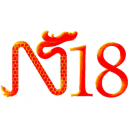
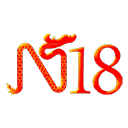
Update 2018-03-28T17:34:35.660Z

Changed region(s): [[0.0, 0.2188, 1.0, 0.7812]]

diff --git a/service-worker.js b/service-worker.js
@@ -31,7 +31,7 @@ importScripts("scripts/sw/sw-toolbox.js","scripts/sw/runtime-caching.js");
 
 
 /* eslint-disable quotes, comma-spacing */
-var PrecacheConfig = [["data/abstracts.json","4c7187fbb3b2bf2519104367832bc13c"],["images/NT18Logo-White.png","57213e3f41e130cdce872d19f80e52ba"],["images/NT18Logo.png","306a09cef1608b3bba0f1361d3ecf85c"],["images/NT18Title.png","0c87ac2583e018b5202dbd0b931e2af6"],["images/pkucloud1h100.png","e29137ee3603ddbe63a1f7680e0226ae"],["images/slider/slider (1).jpg","7b76b6b0cc5538c6646a549e07af77e6"],["images/slider/slider (10).jpg","44f0847936df433465fb4def7f9f4fb9"],["images/slider/slider (11).jpg","65acd9a34f2396934212cbbc118d9b3f"],["images/slider/slider (2).jpg","bec8b98f172e2ced1006e363f0db7beb"],["images/slider/slider (3).jpg","ee0d2276e55586c20c59d1ce3d28bc35"],["images/slider/slider (4).jpg","86e8dbf711b83b85d450b2b266268f8b"],["images/slider/slider (5).jpg","f91036841e8f749af7c751180fc20ec8"],["images/slider/slider (6).jpg","d6823d062a7d3d6c50a42cd51ff3ebc7"],["images/slider/slider (7).jpg","f390f141329bca8a6961dcda3b796162"],["images/slider/slider (8).jpg","463a1332a9e59efad04fcf803def99e6"],["images/slider/slider (9).jpg","937fdec54f960aa2c99c2bd5c1723289"],["images/touch/apple-touch-icon.png","0b9e0692d8b6060c2f5e907ca8b25735"],["images/touch/chrome-touch-icon-192x192.png","fcb807659fc2ff11702375d709e5f2da"],["images/touch/icon-128x128.png","acbd1e2167c5c1acb2ca1b84a76d528f"],["images/touch/ms-touch-icon-144x144-precomposed.png","e4ccf4451f97ec0449d9cde5448e9c1a"],["index.html","60ac9e52b23d01dad878add81187e202"],["lib/jquery/jquery-3.3.1.min.js","a09e13ee94d51c524b7e2a728c7d4039"],["lib/lunr/lunr.min.js","b1cdc7bf6d46f121c337744fa40cf283"],["lib/material/material.min.css","9ab85b48144d24908b4e455c2afb648c"],["lib/material/material.min.js","713af0c6ce93dbbce2f00bf0a98d0541"],["lib/material/material.red-orange.min.css","297d119747fad74bb9e567b7e6c25032"],["lib/semantic-ui-transition/transition.min.css","8504eae866c12354c8e87e7bc5d998ad"],["lib/semantic-ui-transition/transition.min.js","4498162fbd09bbeb2cdeadbddd30d6d9"],["manifest.json","705bd8a492fbd9f6a06008148494eba0"],["scripts/app.js","1641ee392bf5c2229574195207fedece"],["scripts/app.min.js","375f51c62ca58f5fad6167f8ed84cf9e"],["scripts/sw/runtime-caching.js","e3e34dcb62b5d62453b9215961585488"],["scripts/sw/sw-toolbox.js","2770efb889cc10c4de88d0b746c2a13c"],["styles/main.css","4e8bfce5a38ed63ad3ec442f4363d329"]];
+var PrecacheConfig = [["data/abstracts.json","4c7187fbb3b2bf2519104367832bc13c"],["images/NT18Logo-White.png","57213e3f41e130cdce872d19f80e52ba"],["images/NT18Logo.png","d6eba28a3cba7b370669a1ad2d752660"],["images/NT18Title.png","0c87ac2583e018b5202dbd0b931e2af6"],["images/pkucloud1h100.png","e29137ee3603ddbe63a1f7680e0226ae"],["images/slider/slider (1).jpg","7b76b6b0cc5538c6646a549e07af77e6"],["images/slider/slider (10).jpg","44f0847936df433465fb4def7f9f4fb9"],["images/slider/slider (11).jpg","65acd9a34f2396934212cbbc118d9b3f"],["images/slider/slider (2).jpg","bec8b98f172e2ced1006e363f0db7beb"],["images/slider/slider (3).jpg","ee0d2276e55586c20c59d1ce3d28bc35"],["images/slider/slider (4).jpg","86e8dbf711b83b85d450b2b266268f8b"],["images/slider/slider (5).jpg","f91036841e8f749af7c751180fc20ec8"],["images/slider/slider (6).jpg","d6823d062a7d3d6c50a42cd51ff3ebc7"],["images/slider/slider (7).jpg","f390f141329bca8a6961dcda3b796162"],["images/slider/slider (8).jpg","463a1332a9e59efad04fcf803def99e6"],["images/slider/slider (9).jpg","937fdec54f960aa2c99c2bd5c1723289"],["images/touch/apple-touch-icon.png","ca57afbbbbceae34b140dc0161815fb3"],["images/touch/chrome-touch-icon-192x192.png","482fbc1c068443c93a28d5a18a573e1b"],["images/touch/icon-128x128.png","e2132bd312517de7af7b0e721ec4d9a2"],["images/touch/ms-touch-icon-144x144-precomposed.png","cf99b8e5303aac12b8d86b935237c706"],["images/touch/splash-256x256.png","3203fbc23d86634527e9eb3b516a6787"],["images/touch/splash-384x384.png","639f4adf4fcfe7b0fb492be83255d52f"],["images/touch/splash-512x512.png","36c70216c750622ec05a482bdaed2b56"],["index.html","572ff9e4d6e9b235d15863a04ba4e6df"],["lib/jquery/jquery-3.3.1.min.js","a09e13ee94d51c524b7e2a728c7d4039"],["lib/lunr/lunr.min.js","b1cdc7bf6d46f121c337744fa40cf283"],["lib/material/material.min.css","9ab85b48144d24908b4e455c2afb648c"],["lib/material/material.min.js","713af0c6ce93dbbce2f00bf0a98d0541"],["lib/material/material.red-orange.min.css","297d119747fad74bb9e567b7e6c25032"],["lib/semantic-ui-transition/transition.min.css","8504eae866c12354c8e87e7bc5d998ad"],["lib/semantic-ui-transition/transition.min.js","4498162fbd09bbeb2cdeadbddd30d6d9"],["manifest.json","6f399ae954bab87e272b331a856a7816"],["scripts/app.js","1641ee392bf5c2229574195207fedece"],["scripts/app.min.js","375f51c62ca58f5fad6167f8ed84cf9e"],["scripts/sw/runtime-caching.js","e3e34dcb62b5d62453b9215961585488"],["scripts/sw/sw-toolbox.js","2770efb889cc10c4de88d0b746c2a13c"],["styles/main.css","4e8bfce5a38ed63ad3ec442f4363d329"]];
 /* eslint-enable quotes, comma-spacing */
 var CacheNamePrefix = 'sw-precache-v1-NT18-OnAir-' + (self.registration ? self.registration.scope : '') + '-';
 

diff --git a/index.html b/index.html
@@ -1,4 +1,4 @@
-<!doctype html><meta charset=utf-8><meta http-equiv=X-UA-Compatible content="IE=edge"><meta name=description content=""><meta name=viewport content="width=device-width,initial-scale=1"><title>NT18 OnAir</title><meta name=msapplication-tap-highlight content=no><link rel=manifest href=manifest.json><meta name=mobile-web-app-capable content=yes><meta name=application-name content="NT18 OnAir"><link rel=icon sizes=192x192 href=images/touch/chrome-touch-icon-192x192.png><meta name=apple-mobile-web-app-capable content=yes><meta name=apple-mobile-web-app-status-bar-style content=black><meta name=apple-mobile-web-app-title content="NT18 OnAir"><link rel=apple-touch-icon href=images/touch/apple-touch-icon.png><meta name=msapplication-TileImage content=images/touch/ms-touch-icon-144x144-precomposed.png><meta name=msapplication-TileColor content=#94070A><meta name=theme-color content=#94070A><link rel=stylesheet href="https://fonts.googleapis.com/icon?family=Material+Icons"><link rel=stylesheet href=lib/material/material.red-orange.min.css><link rel=stylesheet href=lib/semantic-ui-transition/transition.min.css><style>html, body {
+<!doctype html><meta charset=utf-8><meta http-equiv=X-UA-Compatible content="IE=edge"><meta name=description content=""><meta name=viewport content="width=device-width,initial-scale=1"><title>NT18 OnAir</title><meta name=msapplication-tap-highlight content=no><link rel=manifest href=manifest.json><meta name=mobile-web-app-capable content=yes><meta name=application-name content="NT18 OnAir"><link rel=icon sizes=192x192 href=images/touch/chrome-touch-icon-192x192.png><meta name=apple-mobile-web-app-capable content=yes><meta name=apple-mobile-web-app-status-bar-style content=bl><meta name=apple-mobile-web-app-title content="NT18 OnAir"><link rel=apple-touch-icon href=images/touch/apple-touch-icon.png><meta name=msapplication-TileImage content=images/touch/ms-touch-icon-144x144-precomposed.png><meta name=msapplication-TileColor content=#94070A><meta name=theme-color content=#94070A><link rel=stylesheet href="https://fonts.googleapis.com/icon?family=Material+Icons"><link rel=stylesheet href=lib/material/material.red-orange.min.css><link rel=stylesheet href=lib/semantic-ui-transition/transition.min.css><style>html, body {
         font-family: 'Roboto', 'Helvetica', sans-serif !important;
         margin: 0;
         padding: 0;
@@ -347,7 +347,4 @@
         $(".searchResultUnits").transition({ animation: 'slide down', duration: 200, interval: 100 });
       });
 
-      // schedule tab
-      document.querySelector("#scheduleTimer").addEventListener("mdl-componentupgraded", function () {
-        this.MaterialProgress.setProgress(12);
-      });</script>
+      // schedule tab</script>
